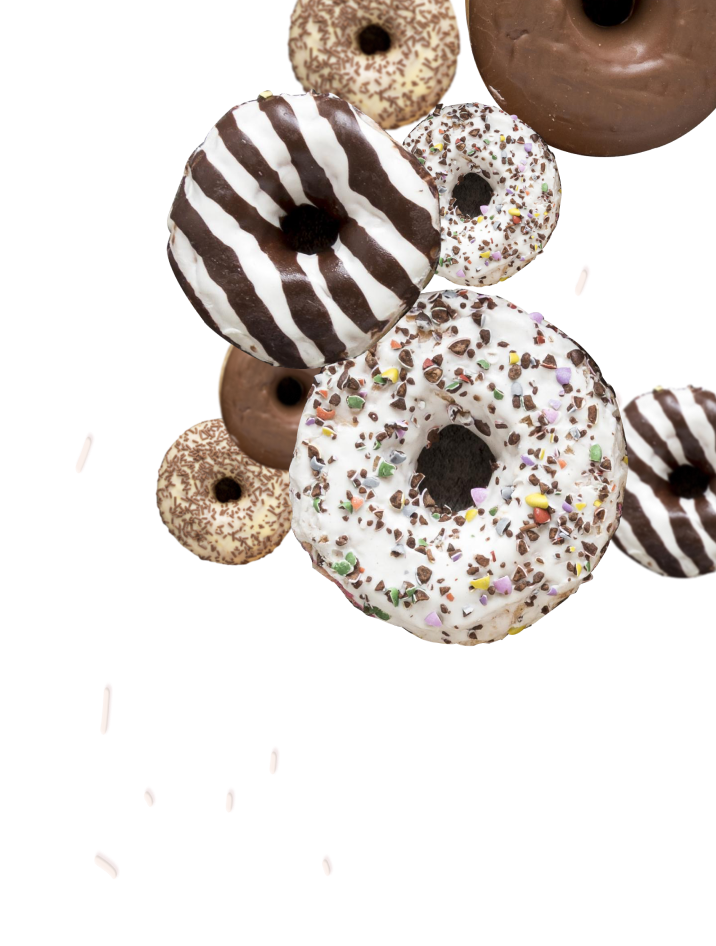
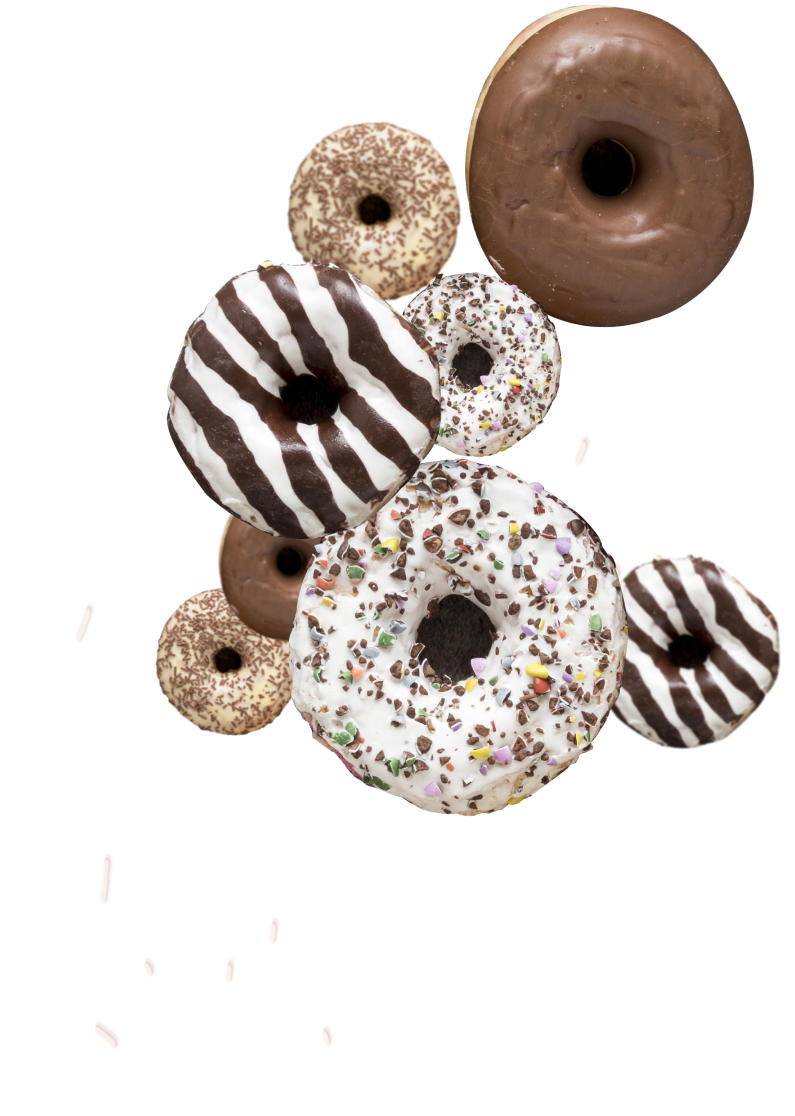
add body bg streching

diff --git a/src/sass/layouts/_base.scss b/src/sass/layouts/_base.scss
@@ -7,91 +7,26 @@ body {
   line-height: calc(20px / 16px);
   color: #2e2520;
 
-  background-image: url(../images/background/bg-header_sm.svg),
-    url(../images/background/bg-bottom_sm.svg);
+  background-image: url(../images/background/bg-header_sm.png),
+    url(../images/background/bg-bottom_sm.png);
   background-repeat: no-repeat;
-  background-size: cover 460px, 324px 1303px;
-  background-position: top 0 center, center bottom 270px;
-
-  @media screen and (min-width: 360px) {
-    background-size: 100%;
-    background-position: center top -30px, center bottom 120px;
-  }
-
-  @media screen and (min-width: 375px) {
-    background-size: 100%;
-    background-position: center top -40px, center bottom 70px;
-  }
-
-  @media screen and (min-width: 390px) {
-    background-size: 100%;
-    background-position: center top -60px, center bottom;
-  }
-
-  @media screen and (min-width: 400px) {
-    background-image: url(../images/background/bg-header_sm.svg),
-      url(../images/background/bg-bottom_msm.svg);
-    background-size: 100%;
-    background-position: center top -90px, center bottom 190px;
-  }
-
-  @media screen and (min-width: 480px) {
-    background-size: 480px;
-    background-position: center top -160px, center bottom 30px;
-  }
+  background-size: 100% 460px, 100% 1303px;
+  background-position: center top, center bottom 211px;
 
   @media screen and (min-width: 768px) {
-    background-image: url(../images/background/bg-header_md.svg),
-      url(../images/background/bg-bottom_md.svg);
-    background-size: 769px 622px, 940px 1456px;
-    background-position: center top, center bottom 110px;
+    background-image: url(../images/background/bg-header_md.png),
+      url(../images/background/bg-bottom_md.png);
+    background-size: 100% 622px, 100% 1456px;
+    background-position: center top, center bottom 101px;
   }
 
   @media screen and (min-width: 1280px) {
     background-color: #fffff9;
-    background-image: url(../images/background/bg-header_lg.svg),
-      url(../images/background/bg-bottom_lg.svg);
-    background-size: 1280px 1035px, 1288px 2073px;
+    background-image: url(../images/background/bg-header_lg.png),
+      url(../images/background/bg-bottom_lg.png);
+    background-size: 100% 1035px, 100% 2073px;
     background-position: center top, center bottom;
   }
-
-  /*  margin: 0px;
-
-  font-family: 'Montserrat';
-  font-size: 16px;
-  line-height: calc(20px / 16px);
-  color: #2e2520;
-
-  @media screen and (min-width: 1280px) {
-    font-size: 18px;
-    line-height: calc(22px / 18px);
-  }
-
-  @media screen and (min-width: 200px) {
-    background-image: url(../images/background/bg.png);
-    background-size: 324px 1303px;
-    background-position: center 3100px;
-  }
-
-  @media screen and (min-width: 480px) {
-    background-image: url(../images/background/bg.png);
-    background-size: 324px 1303px;
-    background-position: center 4040px;
-  }
-  @media screen and (min-width: 768px) {
-    background-image: url(../images/background/vector-13.png);
-    background-size: 940px 1520px;
-    background-position: center 2880px;
-  }
-  @media screen and (min-width: 1280px) {
-    // background-image: url(../images/background/vector-lg.png);
-    // background-size: 1320px 2100px;
-    // background-position: center 3324px;
-    background-image: url(../images/background/bg-header_lg.svg),
-      url(../images/background/bg-bottom_lg.svg);
-    background-size: 1280px 1035px, 1288px 2073px;
-    background-position: top center, center bottom;
-  } */
 }
 
 .container {
@@ -135,10 +70,6 @@ body {
 //    height: auto;
 // }
 
-// .section {
-//    max-width: 280px;
-// }
-
 ul {
   list-style: none;
 }
@@ -155,31 +86,6 @@ h3,
 h4,
 p {
   margin: 0;
-}
-
-.section {
-  max-width: 480px;
-
-  // @media screen and (min-width: 768px) {
-  //   max-width: 704px;
-  // }
-
-  @media screen and (min-width: 768px) {
-    max-width: 768px;
-
-    //   // padding-left: 32px;
-    //   // padding-right: 32px;
-    // }
-
-    // @media screen and (min-width: 1280px) {
-    //   max-width: 1248px;
-
-    // padding-left: 16px;
-    // padding-right: 16px;
-    @media screen and (min-width: 1280px) {
-      max-width: 1280px;
-    }
-  }
 }
 
 .section-title {

diff --git a/src/sass/layouts/_header.scss b/src/sass/layouts/_header.scss
@@ -2,7 +2,7 @@
   position: relative;
   padding-top: 16px;
   min-height: 320px;
-  max-width: 480px;
+
   margin-left: auto;
   margin-right: auto;
 
@@ -40,12 +40,12 @@
 
   @media screen and (min-width: 1280px) {
     position: relative;
-    max-width: 1280px;
+    max-width: 100%;
     height: 1155px;
     padding-top: 46px;
-    background-image: url(../images/header/img-1_md.png);
+    background-image: url(../images/header/img-1_lg.png);
     background-repeat: no-repeat;
-    background-position: top -100px right -77px;
+    background-position: top -100px right calc(50% - 320px);
     background-size: 794px 1116px;
 
     @media (min-device-pixel-ratio: 2),

diff --git a/src/sass/layouts/_program.scss b/src/sass/layouts/_program.scss
@@ -299,6 +299,7 @@
 
     @media screen and (min-width: 1280px) {
       font-size: 16px;
+      margin-bottom: 8px;
     }
   }
 }
@@ -308,7 +309,7 @@
     transform: scale(1) rotate(0deg);
   }
   50% {
-    transform: scale(1.3) rotate(180deg);
+    transform: scale(1.2) rotate(180deg);
   }
   100% {
     transform: scale(1) rotate(359deg);
